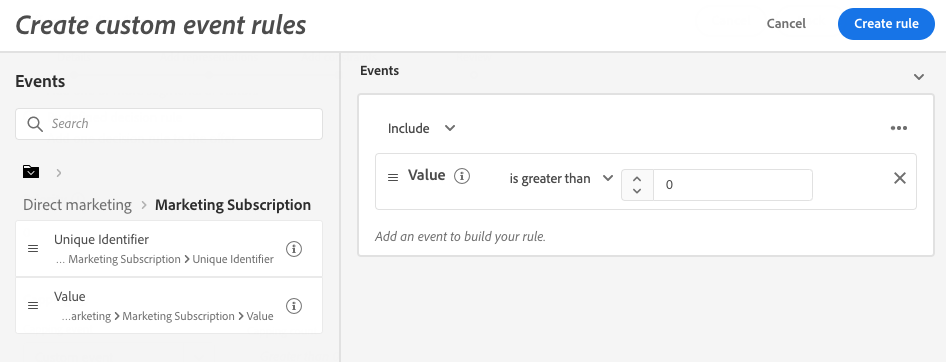
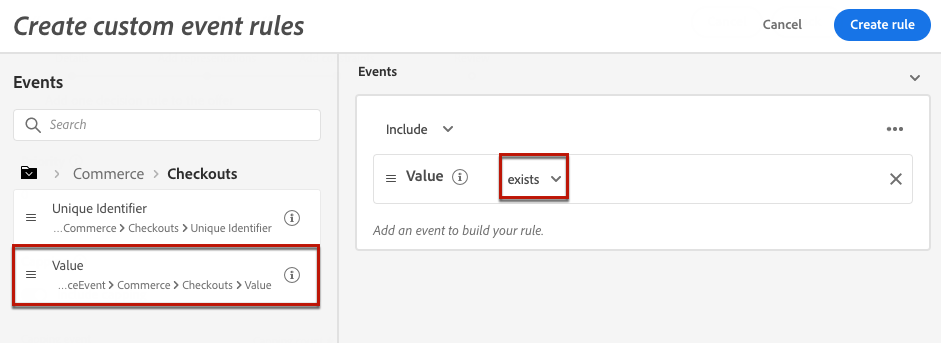
capping custom event example updates

diff --git a/help/using/offers/offer-library/add-constraints.md b/help/using/offers/offer-library/add-constraints.md
@@ -194,13 +194,21 @@ The **[!UICONTROL Capping event]** field allows you to define which **[!UICONTRO
         
     <!--For example, you can cap on the number of redemptions so that the offer can be shown until redemptions equal 10000. You can only select XDM ExperienceEvents. -->
 
-    In the example below, you want to cap on the number of subscriptions. Select **[!UICONTROL Custom event]** from the list and use the **[!UICONTROL Create custom event rules]** builder to select the relevant events.
+    In the example below, you want to cap on the number of checkouts.
 
-    ![](../assets/offer-capping-custom-event.png)
+    1. Select **[!UICONTROL Custom event]** from the list and use the **[!UICONTROL Add custom event]** button.
+    
+        ![](../assets/offer-capping-custom-event-add.png)
+        
+    1. Use the **[!UICONTROL Create custom event rules]** builder to select the relevant event. You can choose any user action that you want to cap offers on.
+    
+        Here choose **[!UICONTROL Commerce]** > **[!UICONTROL Checkouts]** > **[!UICONTROL Value]** and select **[!UICONTROL exists]** from the drop-down list.
 
-    Once the rule is created, it displays in the **[!UICONTROL Custom event query]** field.
+        ![](../assets/offer-capping-custom-event.png)
 
-    ![](../assets/offer-capping-custom-event-query.png)
+    1. Once the rule is created, it displays in the **[!UICONTROL Custom event query]** field.
+
+        ![](../assets/offer-capping-custom-event-query.png)
 
     >[!CAUTION]
     >
@@ -216,7 +224,7 @@ The **[!UICONTROL Capping count]** field allows you to specify the number of tim
 >
 >The number must be an integer greater than 0.
 
-For example, if you defined a custom capping event such as subsciptions are taken into account, if you enter 10 in the **[!UICONTROL Capping count]** field, no more offers will be sent after 10 subscriptions.
+For example, you defined a custom capping event such as the number of checkouts is taken into account. If you enter 10 in the **[!UICONTROL Capping count]** field, no more offers will be sent after 10 checkouts.
 
 ### Capping type {#capping-type}
 
